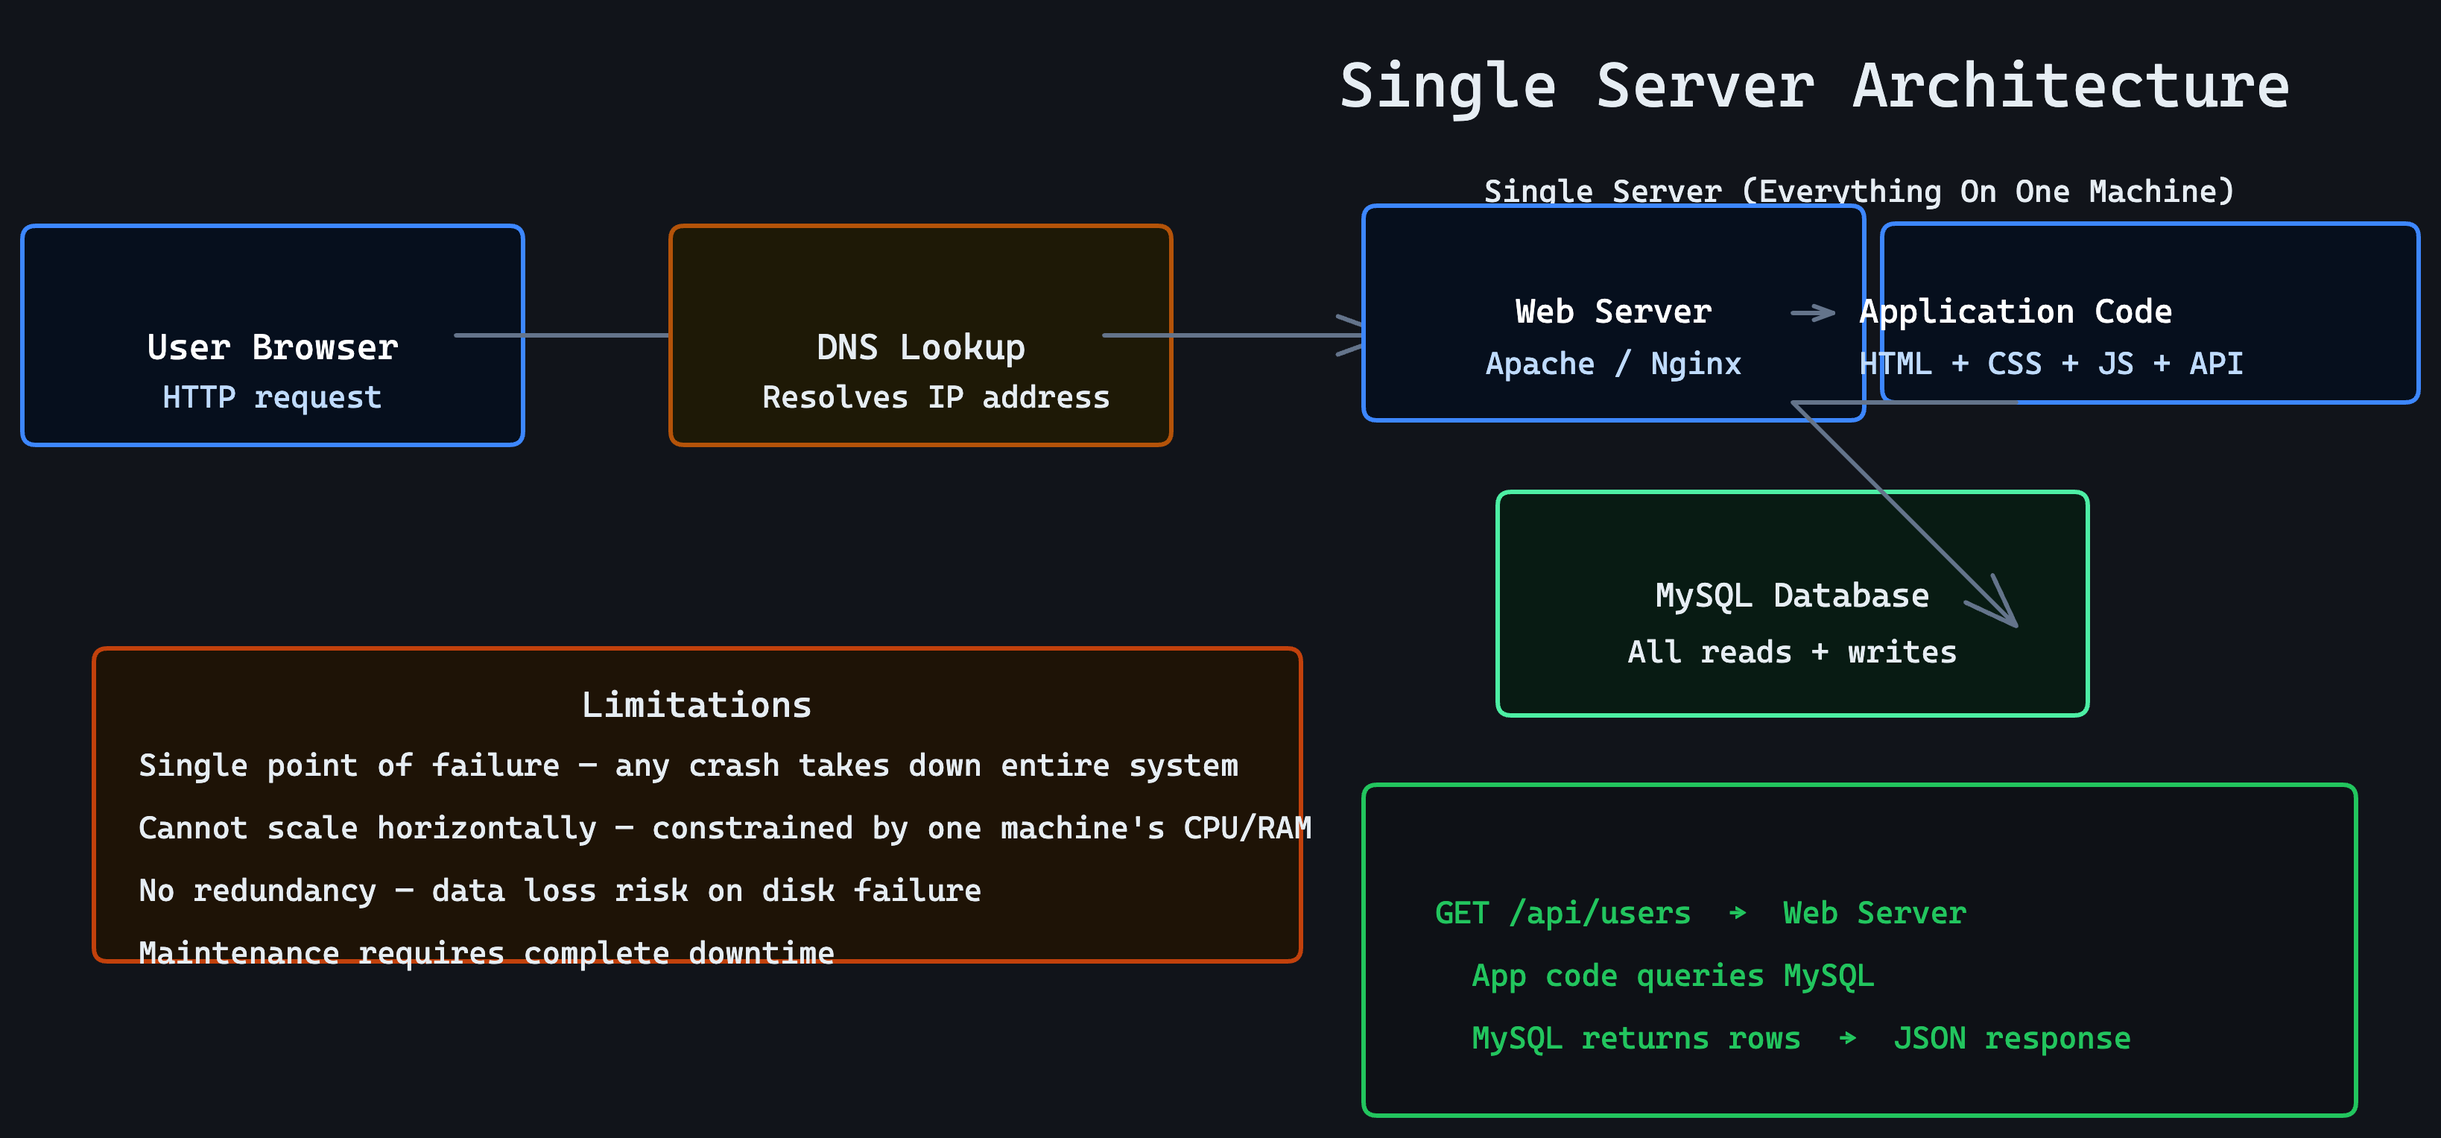
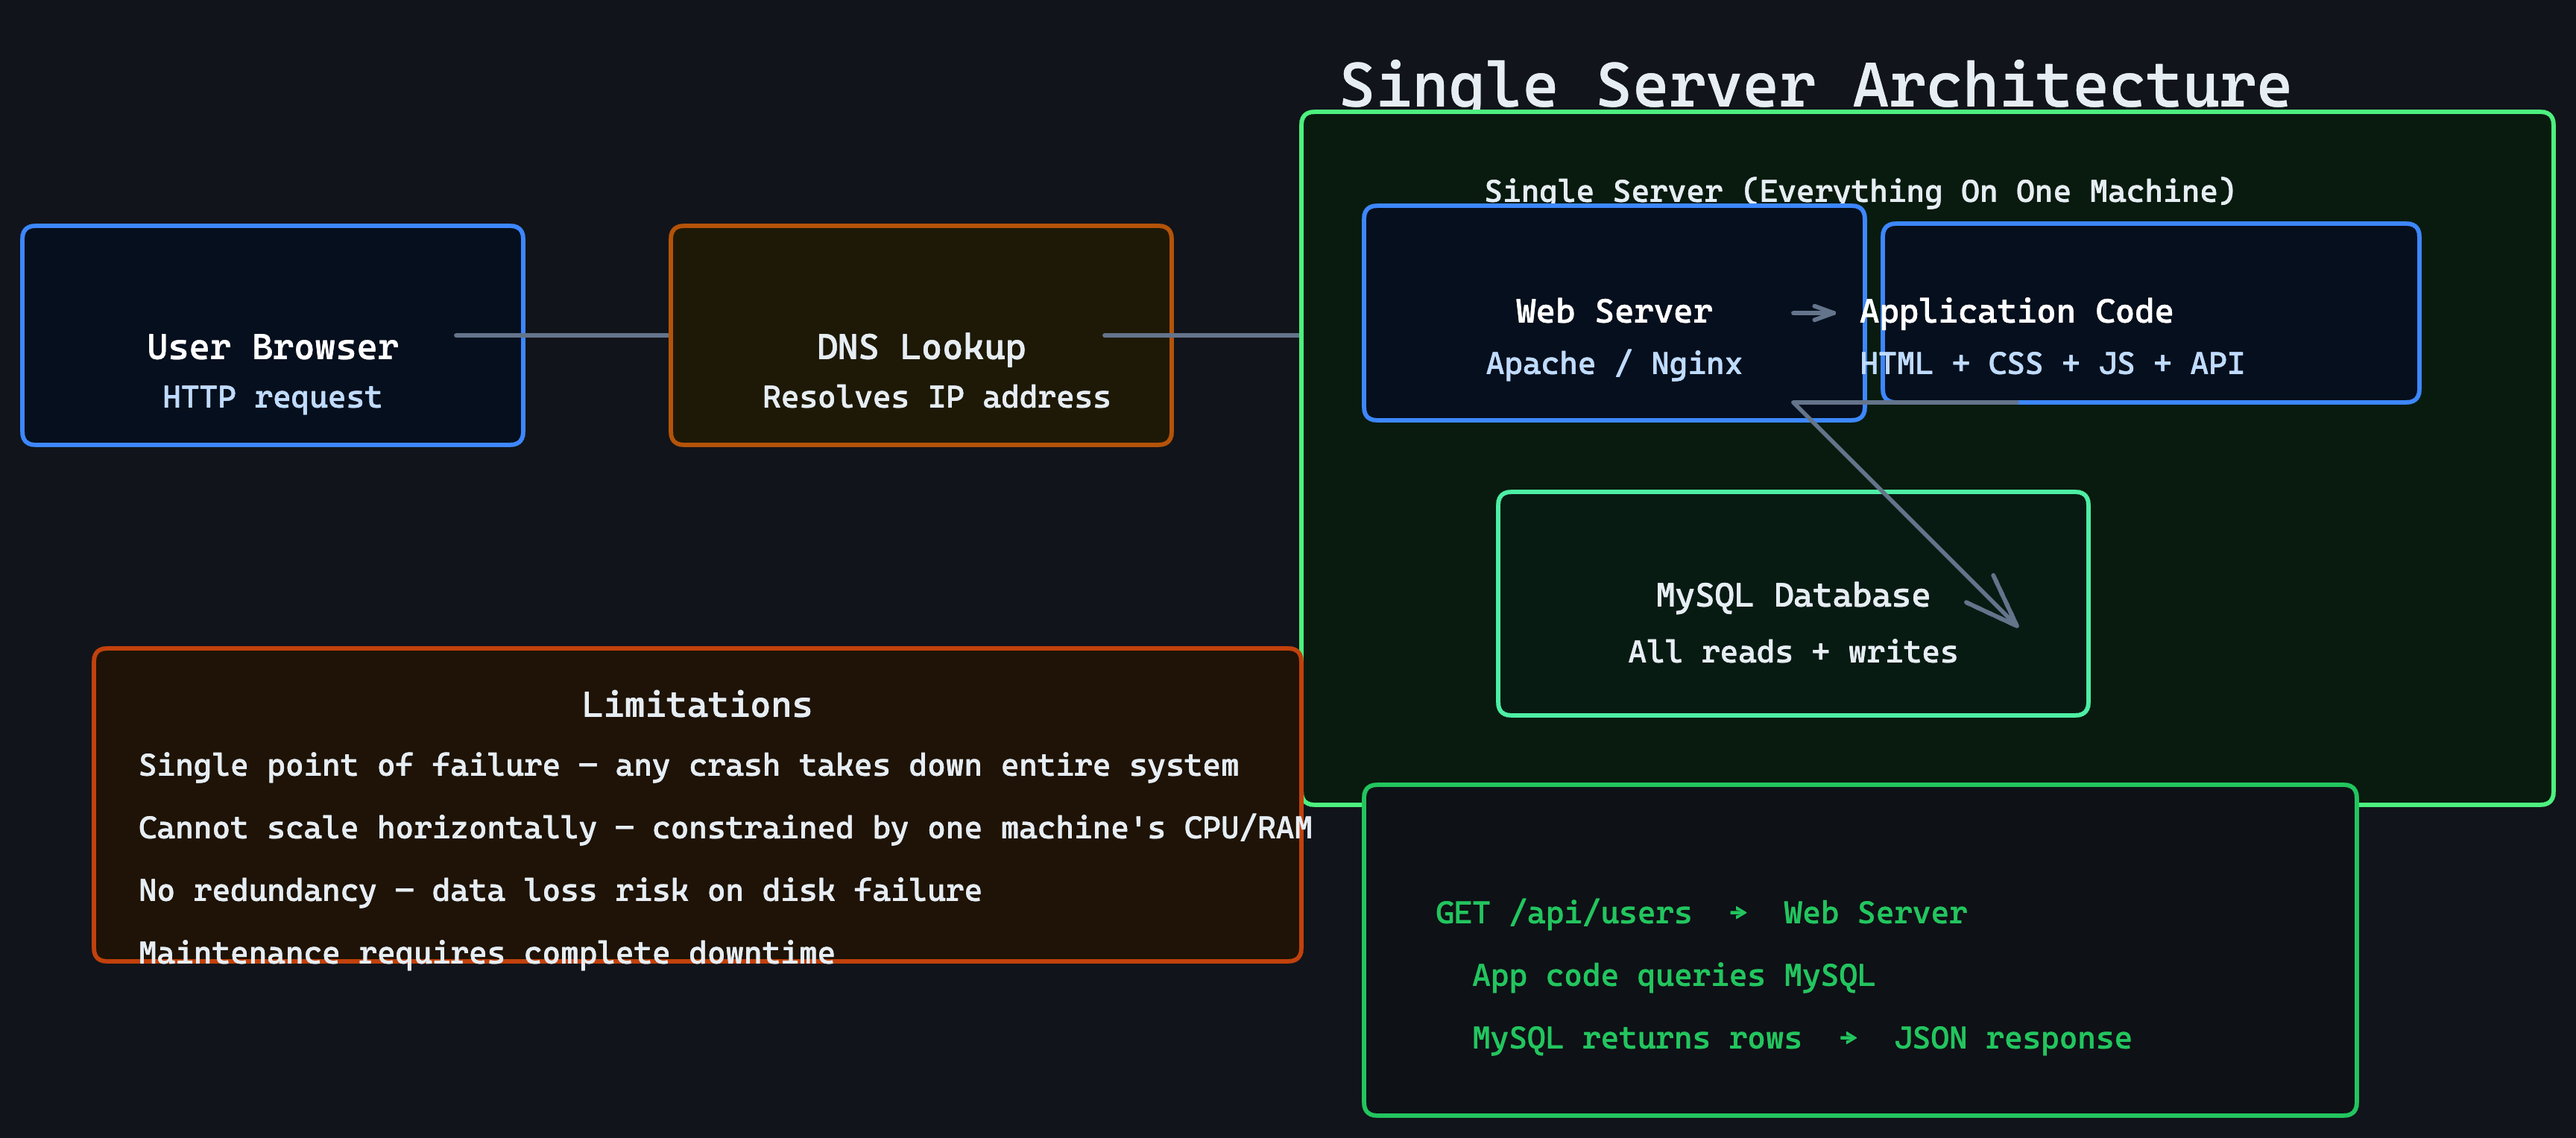
fix(diagrams+ui): fix single-server layout, layered diagram width, problem library header
- single-server.excalidraw: moved server-box from x=1136→620 so the frame
  wraps Web Server + Application Code instead of floating off-screen right
- TopicDiagram.tsx: layered kind renders at maxWidth 80% to fix horizontal
  bulge across all topic layered design panels
- HRLibraryPage: replaced plain h1 with navy/gold cam-hero-strip banner
  matching other category pages (icon, title, tag chips)

diff --git a/apps/camora/src/pages/capra/HRLibraryPage.tsx b/apps/camora/src/pages/capra/HRLibraryPage.tsx
@@ -1,6 +1,7 @@
 import { useState, useEffect, useRef } from 'react';
 import { useNavigate, useSearchParams } from 'react-router-dom';
 import { MUST_DO_PROBLEMS } from '../../data/capra/mustDoProblems.js';
+import { Icon } from '../../components/shared/Icons.jsx';
 
 const API = import.meta.env.VITE_CAPRA_API_URL || 'https://caprab.cariara.com';
 
@@ -538,10 +539,25 @@ export default function HRLibraryPage() {
     <div style={{ background: 'var(--bg-app)', minHeight: '100%', color: 'var(--text-primary)' }}>
 
       {/* ── Header ──────────────────────────────────────────────────────────── */}
-      <div style={{ padding: '24px 28px 0' }}>
-        <h1 style={{ fontSize: 22, fontWeight: 700, margin: '0 0 20px', letterSpacing: '-0.3px' }}>
-          Problem Library
-        </h1>
+      <div style={{ padding: '20px 28px 0' }}>
+        <div className="mb-5 rounded-xl overflow-hidden relative" style={{ background: 'var(--cam-hero-strip)', borderBottom: '1px solid var(--cam-gold-leaf)' }}>
+          <div aria-hidden className="absolute inset-0 pointer-events-none" style={{ background: 'radial-gradient(ellipse 80% 50% at 50% 0%, rgba(255,255,255,0.08), transparent 70%)' }} />
+          <div className="relative p-5">
+            <div className="flex items-start gap-4">
+              <div className="w-12 h-12 rounded flex items-center justify-center flex-shrink-0" style={{ background: 'var(--cam-gold-leaf)' }}>
+                <Icon name="code" size={24} style={{ color: 'var(--cam-primary-dk)' }} />
+              </div>
+              <div className="flex-1 min-w-0">
+                <h1 className="text-2xl font-extrabold mb-3 text-white" style={{ fontFamily: 'var(--font-display)' }}>Problem Library</h1>
+                <div className="flex flex-wrap gap-2">
+                  {['Coding', 'Database', 'MCQ', 'Full Stack', 'Behavioral', 'Whiteboard'].map(tag => (
+                    <span key={tag} className="px-2.5 py-1 rounded-full text-[10px] font-bold" style={{ background: 'rgba(255,255,255,0.12)', color: '#FFFFFF', border: '1px solid rgba(255,255,255,0.18)', fontFamily: 'var(--font-mono)' }}>{tag}</span>
+                  ))}
+                </div>
+              </div>
+            </div>
+          </div>
+        </div>
 
         {/* Full-width search bar */}
         <div style={{ position: 'relative', marginBottom: 14 }}>

diff --git a/apps/camora/src/components/capra/docs/TopicDiagram.tsx b/apps/camora/src/components/capra/docs/TopicDiagram.tsx
@@ -31,10 +31,11 @@ export default function TopicDiagram({
   const [failed, setFailed] = useState(false);
   if (failed) return null;
   const src = `/diagrams/${topicId}/${kind}.png`;
+  const isLayered = kind === 'layered';
   return (
     <figure
       className={`rounded-xl ${className}`}
-      style={{ background: 'var(--bg-app)', border: '1px solid var(--border)', display: 'block', maxWidth: '100%', margin: '0 auto' }}
+      style={{ background: 'var(--bg-app)', border: '1px solid var(--border)', display: 'block', maxWidth: isLayered ? '80%' : '100%', margin: '0 auto' }}
     >
       <img
         src={src}
